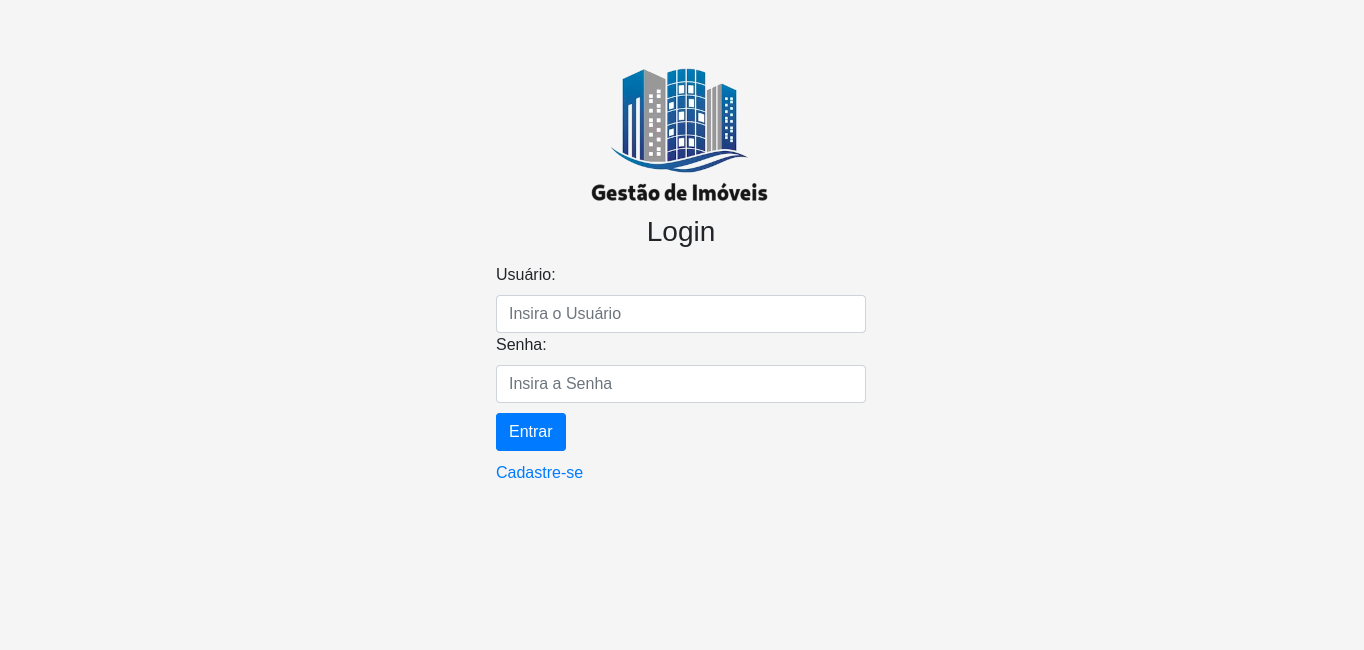
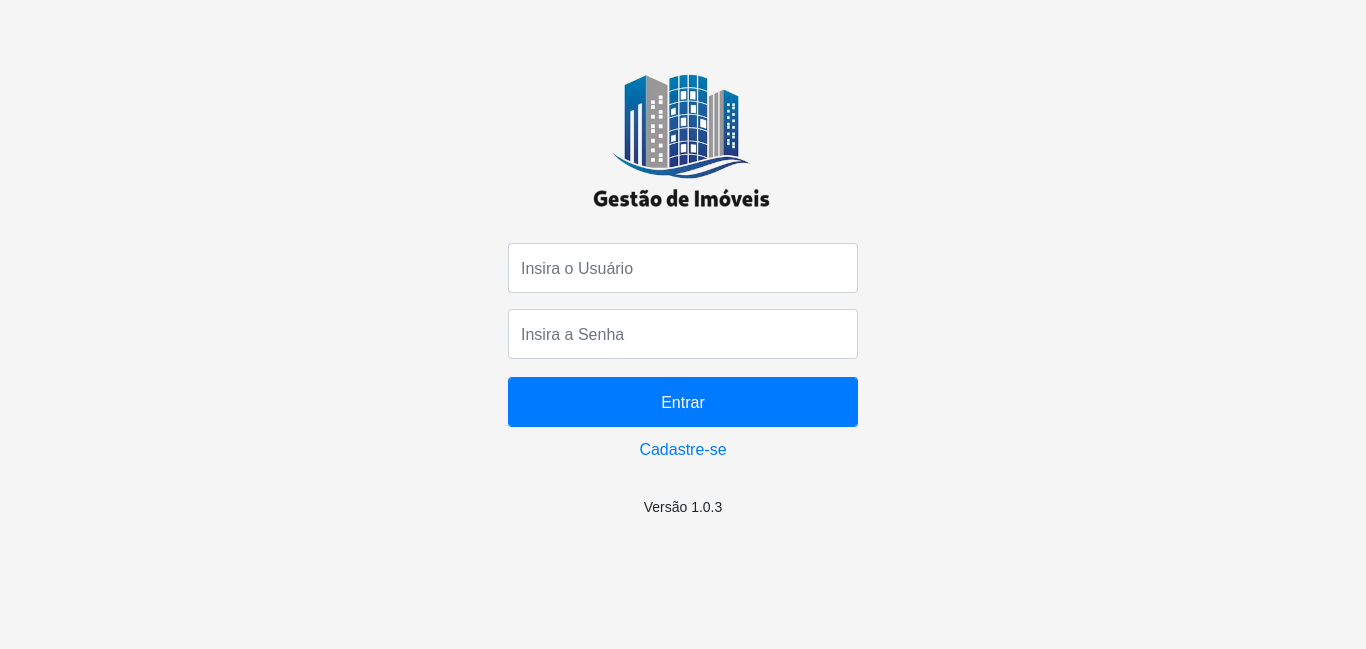
Atualização de arquivos

diff --git a/src/main/resources/templates/security/login.html b/src/main/resources/templates/security/login.html
@@ -7,7 +7,6 @@
 <section layout:fragment="content" class="container-login">
     <div class="logo-login text-center">
         <img src="images/logo.png">
-        <h3>Login</h3>
     </div>
 
     <div class="alert alert-danger" th:if="${param.error}">
@@ -19,18 +18,17 @@
 
     <form th:action="@{/login}" method="post">
         <div class="form-item">
-            <label>Usuário:</label>
-            <input class="form-control" placeholder="Insira o Usuário" type="text" name="username"/>
+            <input class="form-control input-login" placeholder="Insira o Usuário" type="text" name="username"/>
         </div>
         <div class="form-item">
-            <label>Senha:</label>
-            <input class="form-control" placeholder="Insira a Senha" type="password" name="password"/>
+            <input class="form-control input-login" placeholder="Insira a Senha" type="password" name="password"/>
         </div>
-        <div class="form-item" style="padding:10px 0">
-            <input class="btn btn-primary" type="submit" value="Entrar"/>
+        <div class="form-item">
+            <input class="btn btn-primary form-control input-login" type="submit" value="Entrar"/>
         </div>
+        <div class="text-center"><a th:href="@{/signup}">Cadastre-se</a></div>
     </form>
-    <a th:href="@{/signup}">Cadastre-se</a>
+    <div class="text-version">Versão 1.0.3</div>
 </section>
 </body>
 </html>

diff --git a/src/main/resources/static/css/style.css b/src/main/resources/static/css/style.css
@@ -43,11 +43,15 @@ body {
   margin-left: 0;
 }
 
+.margin-card {
+    margin: 0px 10px !important;
+}
+
 .col-card {
     -webkit-box-flex: 0;
     -ms-flex: 0 0 41.666667%;
     flex: 0 0 41.666667%;
-    max-width: 41.666667%;
+    min-width: 25%;
 }
 
 @media (min-width: 768px) {
@@ -64,11 +68,15 @@ body {
     margin-left: -15rem;
   }
 
+  .margin-card {
+      margin: 10px 90px !important;
+  }
+
   .col-card {
     -webkit-box-flex: 0;
     -ms-flex: 0 0 25%;
     flex: 0 0 25%;
-    max-width: 25%;
+    min-width: 30%;
   }
 
   .input-search {
@@ -85,7 +93,7 @@ body {
 }
 
 .card{
-	padding:0;
+	padding:1px;
 	margin:15px;
 }
 
@@ -147,12 +155,27 @@ body {
 
 .container-login {
   width: 100%;
-  max-width: 400px;
-  padding: 55px 15px;
+  max-width: 380px;
+  padding: 60px 15px 40px 15px;
   margin: auto;
 }
 
 .logo-login {
   margin-top: 0px !important;
   padding-bottom: 15px !important;
+}
+
+.form-item {
+  margin: 0px 0px !important;
+  padding: 8px 0px !important;
+}
+
+.input-login {
+  padding: 12px !important;
+}
+
+.text-version {
+  font-size: 14px !important;
+  text-align: center !important;
+  margin-top: 35px !important;
 }

diff --git a/src/main/resources/templates/indexUser.html b/src/main/resources/templates/indexUser.html
@@ -4,7 +4,7 @@
       xmlns:layout="http://www.ultraq.net.nz/thymeleaf/layout"
       layout:decorate="~{fragments/layoutUser.html}">
 <body>
-<section layout:fragment="conteudo" class="distanciamento">
+<section layout:fragment="conteudo" class="margin-card">
     <div class="card col-3 bg-dark">
         <a th:href="@{/user/imovel/todos}">
             <img class="card-img-top" th:src="@{images/imoveis.png}" alt="Imóveis">

diff --git a/src/main/resources/templates/indexPage.html b/src/main/resources/templates/indexPage.html
@@ -4,7 +4,7 @@
       xmlns:layout="http://www.ultraq.net.nz/thymeleaf/layout"
       layout:decorate="~{fragments/layout.html}">
 <body>
-<section layout:fragment="content" class="distanciamento">
+<section layout:fragment="content" class="margin-card">
     <div class="row">
         <div class="card col-card bg-dark">
             <a th:href="@{/classificador/categorias}">
